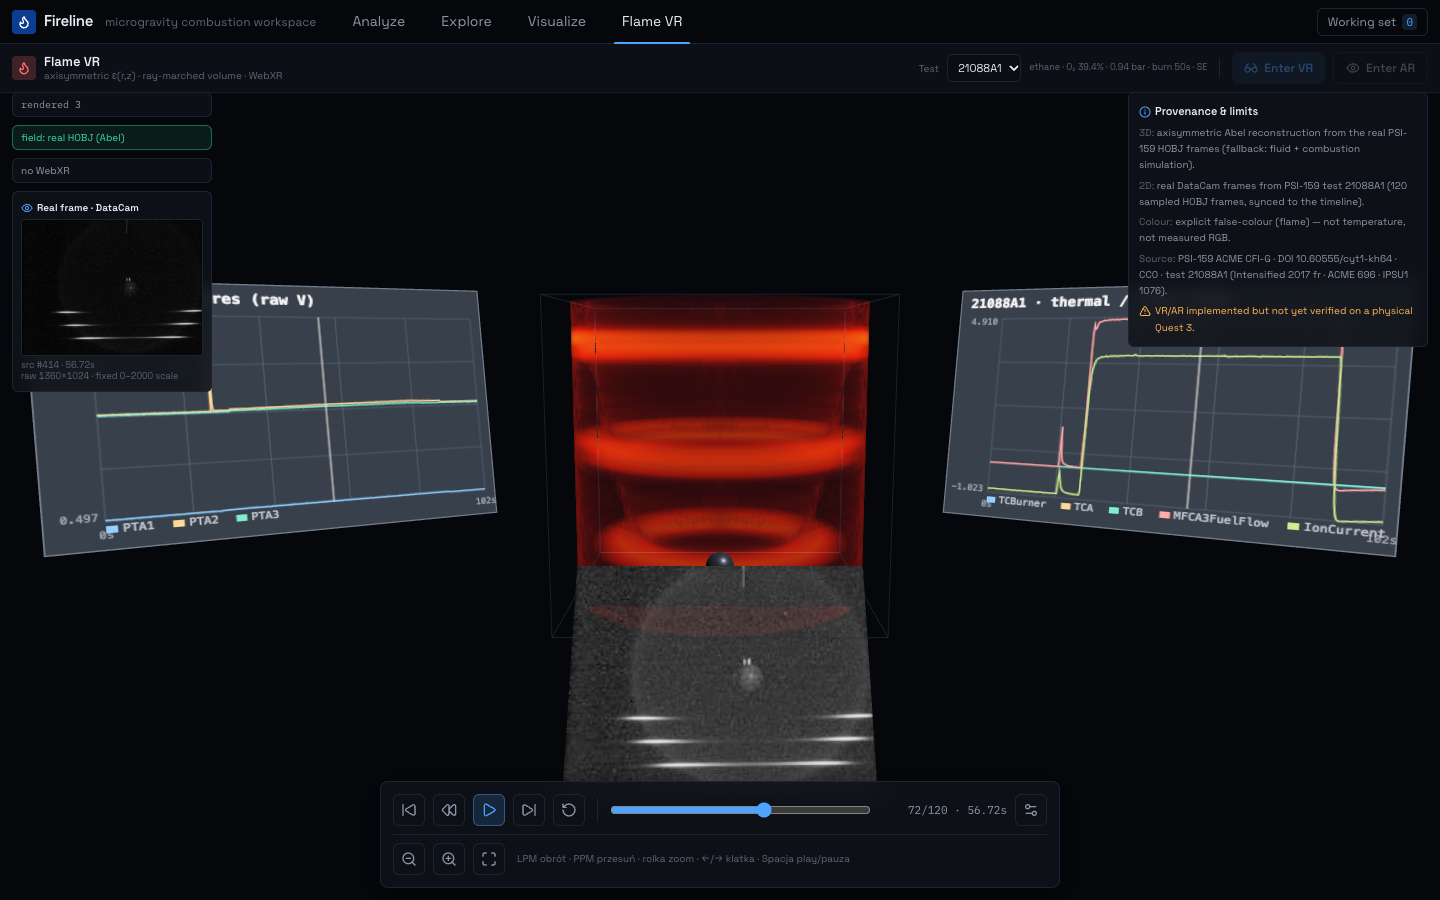
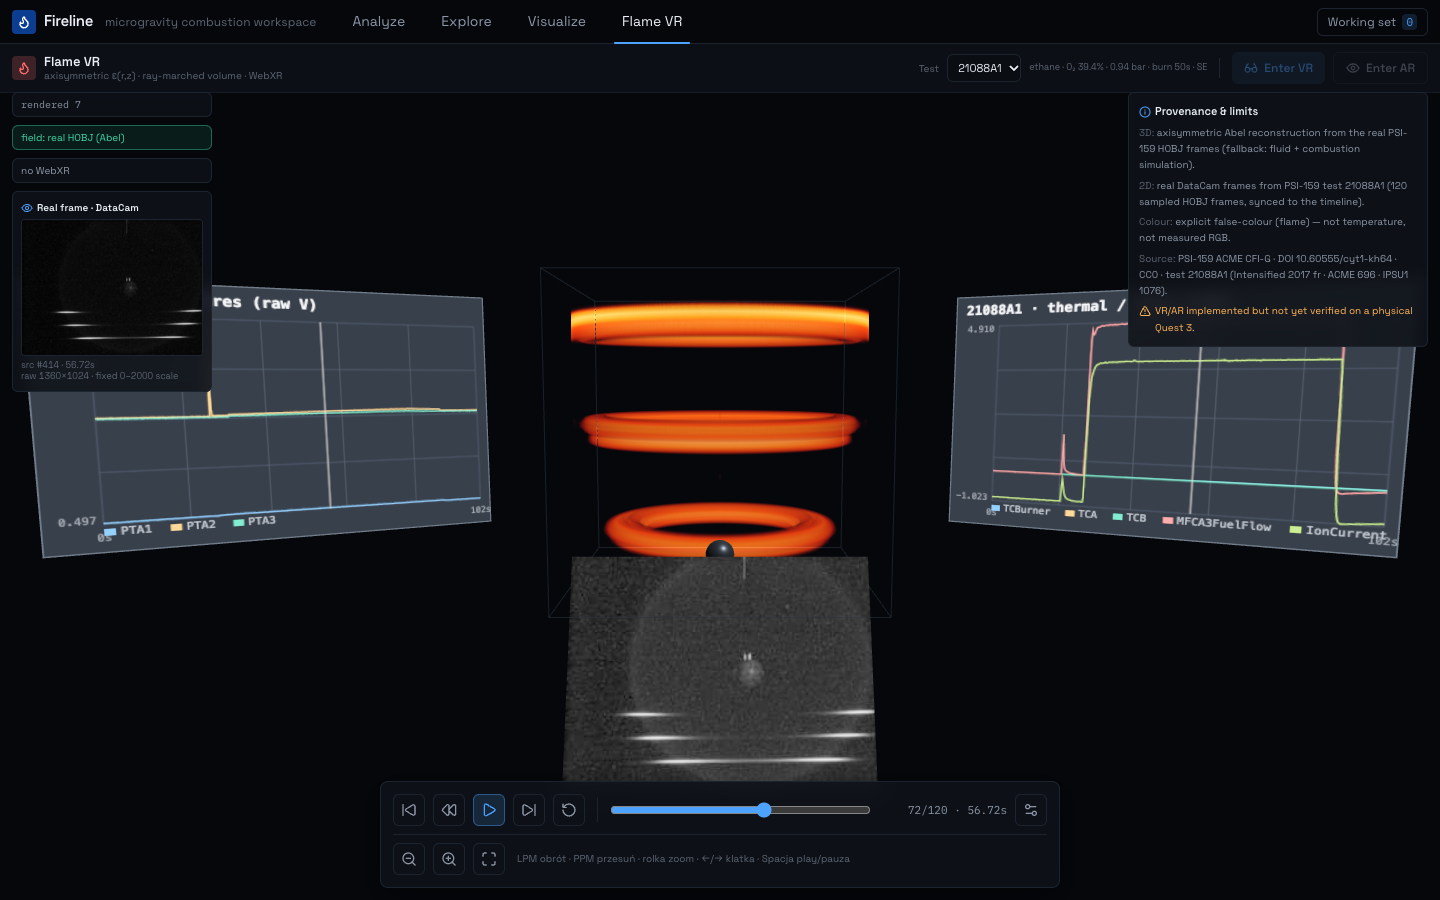
Preserve HOBJ ring layers, raise VR scene, per-frame LUT stretch
- Investigated the 'ball' look: the LUT has three layers (two hollow rings
  at r~70-85 and one filled lower disc); the old display gamma 0.25 washed
  out the dark gaps between them. Use per-frame normalisation + gamma 0.8
  + threshold 0.15 so the three layers stay separated.
- Brighten the low end of the flame false-colour palette.
- Raise the whole VR scene: flame y 1.5, charts y 1.55, preview y 1.05,
  desktop camera y 1.62 / target y 1.42.
- Density/quality defaults tuned (90 / 2.0); verify_vr.py -> all PASS.

diff --git a/app/src/features/vr/flameEngine.ts b/app/src/features/vr/flameEngine.ts
@@ -107,11 +107,11 @@ export class FlameEngine {
   private controllerR: THREE.XRTargetRaySpace
   private controllerL: THREE.XRTargetRaySpace
 
-  private threshold = 0.0
-  private density = 26
+  private threshold = 0.15
+  private density = 90
   private gamma = 1.0
   private palette = 0
-  private quality = 1.4
+  private quality = 2.0
 
   private vrSupported: boolean | null = null
   private arSupported: boolean | null = null
@@ -186,8 +186,8 @@ export class FlameEngine {
     this.renderer.domElement.style.display = 'block'
 
     this.camera = new THREE.PerspectiveCamera(55, 1, 0.05, 20)
-    this.camera.position.set(0, 1.38, 0.06)
-    this.camera.lookAt(0, 1.1, -1.7)
+    this.camera.position.set(0, 1.62, 0.06)
+    this.camera.lookAt(0, 1.42, -1.7)
 
     this.uniforms = {
       uCamLocal: { value: new THREE.Vector3() },
@@ -261,7 +261,7 @@ export class FlameEngine {
   private buildScene() {
     // place the volume in front of the VR user's head at (0, 1.6, 0) facing −Z:
     // the shader raymarches the box in local space, so moving/scaling the group is safe
-    this.flameGroup.position.set(0, 1.15, -1.7)
+    this.flameGroup.position.set(0, 1.5, -1.7)
     this.flameGroup.scale.setScalar(0.62)
 
     // burner sphere (opaque, occludes flame behind it)
@@ -293,7 +293,7 @@ export class FlameEngine {
 
   private setupControls() {
     this.controls = new OrbitControls(this.camera, this.renderer.domElement)
-    this.controls.target.set(0, 1.1, -1.7)
+    this.controls.target.set(0, 1.42, -1.7)
     this.controls.enableDamping = true
     this.controls.dampingFactor = 0.08
     this.controls.minDistance = 0.8
@@ -440,10 +440,12 @@ export class FlameEngine {
     const frames = []
     for (let i = 0; i < meta.frames; i++) {
       const start = i * per
+      // per-frame stretch (display only) so each frame's rings use the full range
+      let fm = 1
+      for (let j = 0; j < per; j++) if (bytes[start + j] > fm) fm = bytes[start + j]
       const data = new Uint8Array(per)
       for (let j = 0; j < per; j++) {
-        // display-only gamma stretch so the faint HOBJ layers read in 3D
-        data[j] = Math.round(255 * Math.pow(bytes[start + j] / 255, 0.25))
+        data[j] = Math.round(255 * Math.pow(bytes[start + j] / fm, 0.8))
       }
       frames.push({ index: i, tMs: Math.round((i / meta.fps) * 1000), data })
     }
@@ -538,8 +540,8 @@ export class FlameEngine {
 
   /** center the flame and restore the default framing */
   resetView() {
-    this.camera.position.set(0, 1.38, 0.06)
-    this.controls?.target.set(0, 1.1, -1.7)
+    this.camera.position.set(0, 1.62, 0.06)
+    this.controls?.target.set(0, 1.42, -1.7)
     this.controls?.update()
     this.emitState(true)
   }
@@ -703,8 +705,8 @@ export class FlameEngine {
       ['TCBurner', 'TCA', 'TCB', 'MFCA3FuelFlow', 'IonCurrent'].includes(x.name),
     )
     const defs = [
-      { title: `${data.testpoint} · pressures (raw V)`, series: press, pos: [-0.85, 1.25, -1.55] },
-      { title: `${data.testpoint} · thermal / flow (raw)`, series: therm, pos: [0.85, 1.25, -1.55] },
+      { title: `${data.testpoint} · pressures (raw V)`, series: press, pos: [-0.85, 1.55, -1.55] },
+      { title: `${data.testpoint} · thermal / flow (raw)`, series: therm, pos: [0.85, 1.55, -1.55] },
     ]
     for (const d of defs) {
       if (!d.series.length) continue
@@ -846,7 +848,7 @@ export class FlameEngine {
     if (!files.length) return
     const mat = new THREE.MeshBasicMaterial({ color: 0x0e1218, side: THREE.DoubleSide })
     const mesh = new THREE.Mesh(new THREE.PlaneGeometry(0.6, 0.45), mat)
-    mesh.position.set(0, 0.72, -1.5)
+    mesh.position.set(0, 1.05, -1.5)
     mesh.lookAt(0, 1.6, 0)
     this.scene.add(mesh)
     this.previewMesh = mesh

diff --git a/app/src/features/vr/FlameVrView.tsx b/app/src/features/vr/FlameVrView.tsx
@@ -61,10 +61,10 @@ export function FlameVrView() {
   const [state, setState] = useState<FlameVrState | null>(null)
   const [gravity, setGravity] = useState(0.8)
   const [palette, setPalette] = useState(0)
-  const [threshold, setThreshold] = useState(0)
-  const [density, setDensity] = useState(26)
+  const [threshold, setThreshold] = useState(0.15)
+  const [density, setDensity] = useState(90)
   const [gamma, setGamma] = useState(1)
-  const [quality, setQuality] = useState(1.4)
+  const [quality, setQuality] = useState(2)
   const [showTuning, setShowTuning] = useState(false)
   const [realFrames, setRealFrames] = useState<RealFrame[] | null>(null)
   const [tests, setTests] = useState<TestPoint[]>([{ id: '21088A1', label: '21088A1' }])
@@ -350,7 +350,7 @@ export function FlameVrView() {
                 </select>
               </Field>
               <Slider label="Threshold" value={threshold} min={0} max={0.9} step={0.01} onChange={(v) => { setThreshold(v); engineRef.current?.setThreshold(v) }} />
-              <Slider label="Density" value={density} min={0.2} max={6} step={0.1} onChange={(v) => { setDensity(v); engineRef.current?.setDensity(v) }} />
+              <Slider label="Density" value={density} min={10} max={2000} step={10} onChange={(v) => { setDensity(v); engineRef.current?.setDensity(v) }} />
               <Slider label="Gamma" value={gamma} min={0.4} max={3} step={0.05} onChange={(v) => { setGamma(v); engineRef.current?.setGamma(v) }} />
               <Slider label="Ray quality" value={quality} min={0.25} max={1.6} step={0.05} onChange={(v) => { setQuality(v); engineRef.current?.setQuality(v) }} />
             </div>

diff --git a/app/src/features/vr/flameShader.ts b/app/src/features/vr/flameShader.ts
@@ -58,9 +58,9 @@ export const FLAME_FRAGMENT = /* glsl */ `
   vec3 flameColor(float t) {
     t = clamp(t, 0.0, 1.0);
     vec3 c = vec3(0.0);
-    c = mix(c, vec3(0.30, 0.02, 0.02), smoothstep(0.00, 0.20, t));
-    c = mix(c, vec3(0.90, 0.10, 0.00), smoothstep(0.15, 0.45, t));
-    c = mix(c, vec3(1.00, 0.60, 0.05), smoothstep(0.40, 0.70, t));
+    c = mix(c, vec3(0.60, 0.05, 0.02), smoothstep(0.00, 0.15, t));
+    c = mix(c, vec3(1.00, 0.28, 0.02), smoothstep(0.10, 0.40, t));
+    c = mix(c, vec3(1.00, 0.68, 0.10), smoothstep(0.35, 0.70, t));
     c = mix(c, vec3(1.00, 0.95, 0.55), smoothstep(0.65, 0.90, t));
     c = mix(c, vec3(1.00, 1.00, 1.00), smoothstep(0.88, 1.00, t));
     return c;
